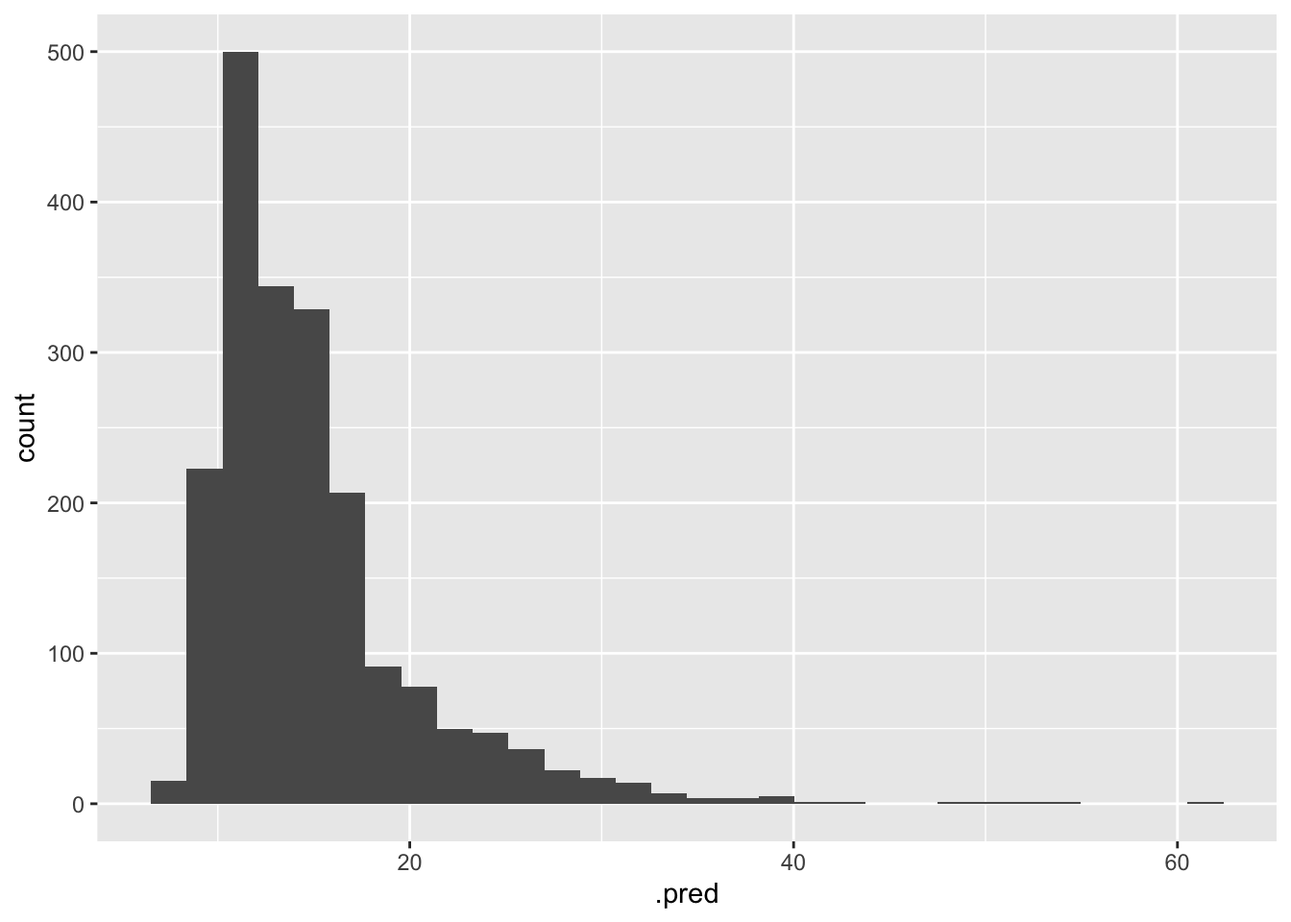
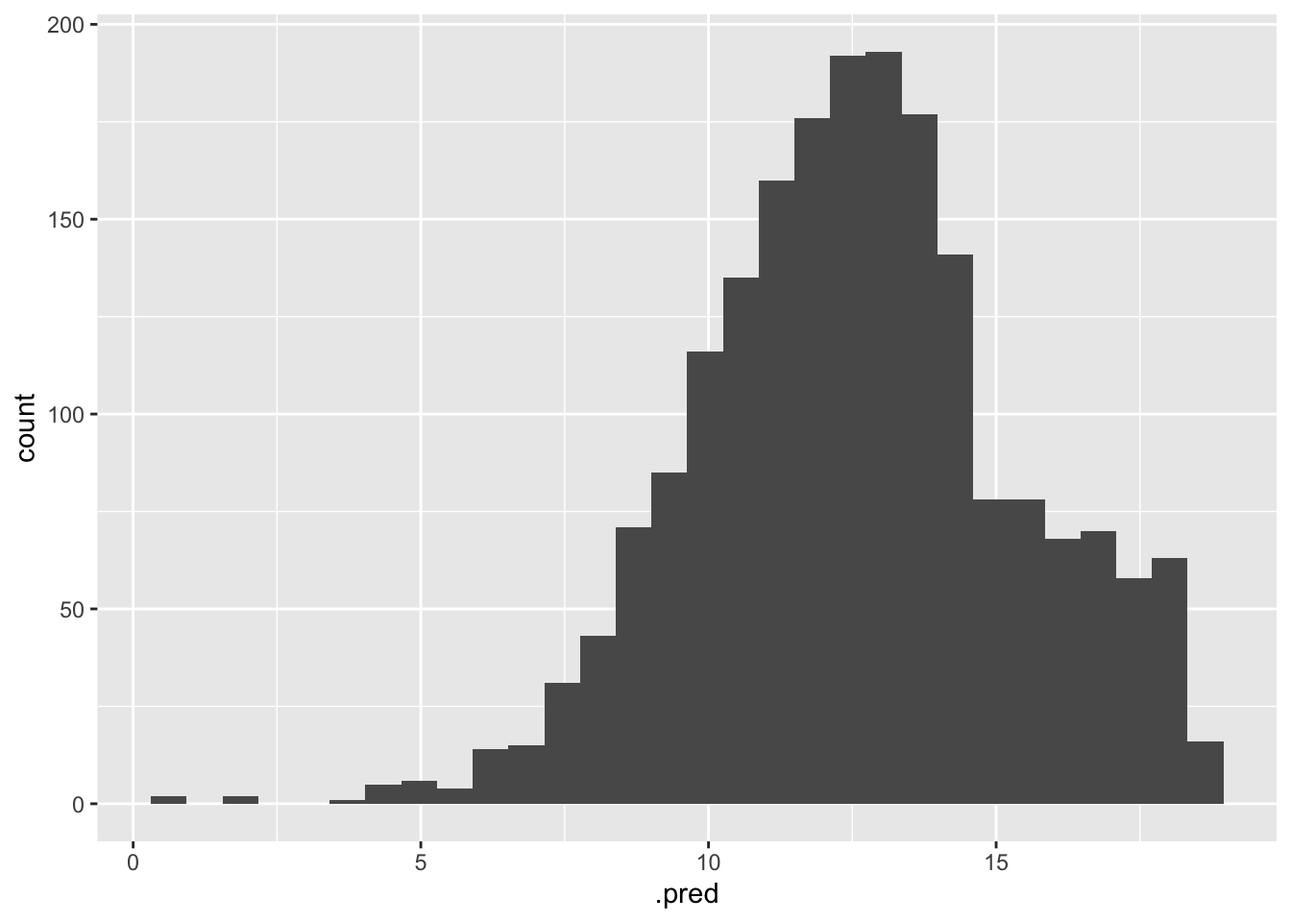
Updates frozen output, and site

diff --git a/docs/r-udfs-modeling.html b/docs/r-udfs-modeling.html
@@ -248,13 +248,13 @@ pre > code.sourceCode > span > a:first-child::before { text-decoration: underlin
 <h2 data-number="7.1" class="anchored" data-anchor-id="get-sample-of-data"><span class="header-section-number">7.1</span> Get sample of data</h2>
 <p><em>Download a sampled data set locally to R</em></p>
 <ol type="1">
-<li>Create a pointer to the <code>lendingclub</code> data. It is in the <code>default</code> schema, inside the <code>hive_metastore</code> catalog. And name it <code>lendingclub_dat</code></li>
+<li>Create a pointer to the <code>lendingclub</code> data. It is in the <code>samples</code> schema</li>
 </ol>
 <div class="cell">
-<div class="sourceCode cell-code" id="cb2"><pre class="sourceCode r code-with-copy"><code class="sourceCode r"><span id="cb2-1"><a href="#cb2-1" aria-hidden="true" tabindex="-1"></a>lendingclub_dat <span class="ot">&lt;-</span> <span class="fu">tbl</span>(sc, <span class="fu">I</span>(<span class="st">"hive_metastore.default.lendingclub"</span>))</span></code><button title="Copy to Clipboard" class="code-copy-button"><i class="bi"></i></button></pre></div>
+<div class="sourceCode cell-code" id="cb2"><pre class="sourceCode r code-with-copy"><code class="sourceCode r"><span id="cb2-1"><a href="#cb2-1" aria-hidden="true" tabindex="-1"></a>lendingclub_dat <span class="ot">&lt;-</span> <span class="fu">tbl</span>(sc, <span class="fu">I</span>(<span class="st">"workshops.samples.lendingclub"</span>))</span></code><button title="Copy to Clipboard" class="code-copy-button"><i class="bi"></i></button></pre></div>
 </div>
 <ol start="2" type="1">
-<li>Using <code>slice_sample()</code>, download 20K records, and name it <code>lendingclub_sample</code></li>
+<li>Using <code>slice_sample()</code>, download 2K records, and name it <code>lendingclub_sample</code></li>
 </ol>
 <div class="cell">
 <div class="sourceCode cell-code" id="cb3"><pre class="sourceCode r code-with-copy"><code class="sourceCode r"><span id="cb3-1"><a href="#cb3-1" aria-hidden="true" tabindex="-1"></a>lendingclub_sample <span class="ot">&lt;-</span> lendingclub_dat <span class="sc">|&gt;</span>  </span>
@@ -284,11 +284,11 @@ pre > code.sourceCode > span > a:first-child::before { text-decoration: underlin
 <div class="sourceCode cell-code" id="cb6"><pre class="sourceCode r code-with-copy"><code class="sourceCode r"><span id="cb6-1"><a href="#cb6-1" aria-hidden="true" tabindex="-1"></a><span class="fu">glimpse</span>(lendingclub_prep)</span>
 <span id="cb6-2"><a href="#cb6-2" aria-hidden="true" tabindex="-1"></a><span class="co">#&gt; Rows: 2,000</span></span>
 <span id="cb6-3"><a href="#cb6-3" aria-hidden="true" tabindex="-1"></a><span class="co">#&gt; Columns: 5</span></span>
-<span id="cb6-4"><a href="#cb6-4" aria-hidden="true" tabindex="-1"></a><span class="co">#&gt; $ int_rate       &lt;dbl&gt; 10.41, 6.83, 20.39, 11.98, 12.61, 15.49, 5.31, 11.98, 1…</span></span>
-<span id="cb6-5"><a href="#cb6-5" aria-hidden="true" tabindex="-1"></a><span class="co">#&gt; $ term           &lt;chr&gt; " 36 months", " 36 months", " 60 months", " 36 months",…</span></span>
-<span id="cb6-6"><a href="#cb6-6" aria-hidden="true" tabindex="-1"></a><span class="co">#&gt; $ bc_util        &lt;chr&gt; "16.8", "41.2", "12.3", "66.7", "30.8", "85.2", "59.1",…</span></span>
-<span id="cb6-7"><a href="#cb6-7" aria-hidden="true" tabindex="-1"></a><span class="co">#&gt; $ bc_open_to_buy &lt;chr&gt; "10739", "54371", "6662", "4163", "1384", "2781", "1152…</span></span>
-<span id="cb6-8"><a href="#cb6-8" aria-hidden="true" tabindex="-1"></a><span class="co">#&gt; $ all_util       &lt;chr&gt; "68", "51", "85", "73", "74", "85", "71", "37", "42", "…</span></span></code><button title="Copy to Clipboard" class="code-copy-button"><i class="bi"></i></button></pre></div>
+<span id="cb6-4"><a href="#cb6-4" aria-hidden="true" tabindex="-1"></a><span class="co">#&gt; $ int_rate       &lt;dbl&gt; 14.07, 12.61, 10.90, 9.58, 7.96, 5.31, 10.56, 18.45, 5.…</span></span>
+<span id="cb6-5"><a href="#cb6-5" aria-hidden="true" tabindex="-1"></a><span class="co">#&gt; $ term           &lt;chr&gt; "36 months", "60 months", "36 months", "36 months", "36…</span></span>
+<span id="cb6-6"><a href="#cb6-6" aria-hidden="true" tabindex="-1"></a><span class="co">#&gt; $ bc_util        &lt;dbl&gt; 8.5, 84.2, 95.4, 0.4, 16.6, 25.0, 28.3, 32.7, 53.6, 10.…</span></span>
+<span id="cb6-7"><a href="#cb6-7" aria-hidden="true" tabindex="-1"></a><span class="co">#&gt; $ bc_open_to_buy &lt;dbl&gt; 21232, 835, 278, 20919, 37946, 41334, 17721, 64335, 343…</span></span>
+<span id="cb6-8"><a href="#cb6-8" aria-hidden="true" tabindex="-1"></a><span class="co">#&gt; $ all_util       &lt;dbl&gt; 9, 61, 80, 61, 44, 29, 62, 33, 44, 19, 38, 37, 69, 29, …</span></span></code><button title="Copy to Clipboard" class="code-copy-button"><i class="bi"></i></button></pre></div>
 </div>
 <ol start="6" type="1">
 <li>Disconnect from Spark</li>
@@ -306,7 +306,7 @@ pre > code.sourceCode > span > a:first-child::before { text-decoration: underlin
 <div class="sourceCode cell-code" id="cb8"><pre class="sourceCode r code-with-copy"><code class="sourceCode r"><span id="cb8-1"><a href="#cb8-1" aria-hidden="true" tabindex="-1"></a><span class="fu">library</span>(tidymodels)</span>
 <span id="cb8-2"><a href="#cb8-2" aria-hidden="true" tabindex="-1"></a></span>
 <span id="cb8-3"><a href="#cb8-3" aria-hidden="true" tabindex="-1"></a>lendingclub_rec <span class="ot">&lt;-</span> <span class="fu">recipe</span>(int_rate <span class="sc">~</span> ., <span class="at">data =</span> lendingclub_prep) <span class="sc">|&gt;</span> </span>
-<span id="cb8-4"><a href="#cb8-4" aria-hidden="true" tabindex="-1"></a>  <span class="fu">step_mutate</span>(<span class="at">term =</span> <span class="fu">trimws</span>(<span class="fu">substr</span>(term, <span class="dv">1</span>,<span class="dv">4</span>))) <span class="sc">|&gt;</span> </span>
+<span id="cb8-4"><a href="#cb8-4" aria-hidden="true" tabindex="-1"></a>  <span class="fu">step_mutate</span>(<span class="at">term =</span> <span class="fu">trimws</span>(<span class="fu">substr</span>(term, <span class="dv">1</span>,<span class="dv">2</span>))) <span class="sc">|&gt;</span> </span>
 <span id="cb8-5"><a href="#cb8-5" aria-hidden="true" tabindex="-1"></a>  <span class="fu">step_mutate</span>(<span class="fu">across</span>(<span class="fu">everything</span>(), as.numeric)) <span class="sc">|&gt;</span> </span>
 <span id="cb8-6"><a href="#cb8-6" aria-hidden="true" tabindex="-1"></a>  <span class="fu">step_normalize</span>(<span class="fu">all_numeric_predictors</span>()) <span class="sc">|&gt;</span></span>
 <span id="cb8-7"><a href="#cb8-7" aria-hidden="true" tabindex="-1"></a>  <span class="fu">step_impute_mean</span>(<span class="fu">all_of</span>(<span class="fu">c</span>(<span class="st">"bc_open_to_buy"</span>, <span class="st">"bc_util"</span>))) <span class="sc">|&gt;</span>   </span>
@@ -355,9 +355,9 @@ pre > code.sourceCode > span > a:first-child::before { text-decoration: underlin
 <span id="cb10-4"><a href="#cb10-4" aria-hidden="true" tabindex="-1"></a><span class="co">#&gt; # A tibble: 3 × 3</span></span>
 <span id="cb10-5"><a href="#cb10-5" aria-hidden="true" tabindex="-1"></a><span class="co">#&gt;   .metric .estimator .estimate</span></span>
 <span id="cb10-6"><a href="#cb10-6" aria-hidden="true" tabindex="-1"></a><span class="co">#&gt;   &lt;chr&gt;   &lt;chr&gt;          &lt;dbl&gt;</span></span>
-<span id="cb10-7"><a href="#cb10-7" aria-hidden="true" tabindex="-1"></a><span class="co">#&gt; 1 rmse    standard      8.56  </span></span>
-<span id="cb10-8"><a href="#cb10-8" aria-hidden="true" tabindex="-1"></a><span class="co">#&gt; 2 rsq     standard      0.0378</span></span>
-<span id="cb10-9"><a href="#cb10-9" aria-hidden="true" tabindex="-1"></a><span class="co">#&gt; 3 mae     standard      6.29</span></span></code><button title="Copy to Clipboard" class="code-copy-button"><i class="bi"></i></button></pre></div>
+<span id="cb10-7"><a href="#cb10-7" aria-hidden="true" tabindex="-1"></a><span class="co">#&gt; 1 rmse    standard       4.18 </span></span>
+<span id="cb10-8"><a href="#cb10-8" aria-hidden="true" tabindex="-1"></a><span class="co">#&gt; 2 rsq     standard       0.307</span></span>
+<span id="cb10-9"><a href="#cb10-9" aria-hidden="true" tabindex="-1"></a><span class="co">#&gt; 3 mae     standard       3.26</span></span></code><button title="Copy to Clipboard" class="code-copy-button"><i class="bi"></i></button></pre></div>
 </div>
 <ol start="4" type="1">
 <li>Run a histogram over the predictions</li>
@@ -419,16 +419,16 @@ pre > code.sourceCode > span > a:first-child::before { text-decoration: underlin
 <span id="cb16-2"><a href="#cb16-2" aria-hidden="true" tabindex="-1"></a><span class="co">#&gt; # A tibble: 2,000 × 1</span></span>
 <span id="cb16-3"><a href="#cb16-3" aria-hidden="true" tabindex="-1"></a><span class="co">#&gt;    .pred</span></span>
 <span id="cb16-4"><a href="#cb16-4" aria-hidden="true" tabindex="-1"></a><span class="co">#&gt;    &lt;dbl&gt;</span></span>
-<span id="cb16-5"><a href="#cb16-5" aria-hidden="true" tabindex="-1"></a><span class="co">#&gt;  1  13.1</span></span>
-<span id="cb16-6"><a href="#cb16-6" aria-hidden="true" tabindex="-1"></a><span class="co">#&gt;  2  26.4</span></span>
-<span id="cb16-7"><a href="#cb16-7" aria-hidden="true" tabindex="-1"></a><span class="co">#&gt;  3  16.1</span></span>
-<span id="cb16-8"><a href="#cb16-8" aria-hidden="true" tabindex="-1"></a><span class="co">#&gt;  4  11.5</span></span>
-<span id="cb16-9"><a href="#cb16-9" aria-hidden="true" tabindex="-1"></a><span class="co">#&gt;  5  10.5</span></span>
-<span id="cb16-10"><a href="#cb16-10" aria-hidden="true" tabindex="-1"></a><span class="co">#&gt;  6  15.2</span></span>
-<span id="cb16-11"><a href="#cb16-11" aria-hidden="true" tabindex="-1"></a><span class="co">#&gt;  7  13.7</span></span>
-<span id="cb16-12"><a href="#cb16-12" aria-hidden="true" tabindex="-1"></a><span class="co">#&gt;  8  18.5</span></span>
-<span id="cb16-13"><a href="#cb16-13" aria-hidden="true" tabindex="-1"></a><span class="co">#&gt;  9  37.7</span></span>
-<span id="cb16-14"><a href="#cb16-14" aria-hidden="true" tabindex="-1"></a><span class="co">#&gt; 10  12.0</span></span>
+<span id="cb16-5"><a href="#cb16-5" aria-hidden="true" tabindex="-1"></a><span class="co">#&gt;  1  8.35</span></span>
+<span id="cb16-6"><a href="#cb16-6" aria-hidden="true" tabindex="-1"></a><span class="co">#&gt;  2 17.3 </span></span>
+<span id="cb16-7"><a href="#cb16-7" aria-hidden="true" tabindex="-1"></a><span class="co">#&gt;  3 14.2 </span></span>
+<span id="cb16-8"><a href="#cb16-8" aria-hidden="true" tabindex="-1"></a><span class="co">#&gt;  4 10.1 </span></span>
+<span id="cb16-9"><a href="#cb16-9" aria-hidden="true" tabindex="-1"></a><span class="co">#&gt;  5  8.77</span></span>
+<span id="cb16-10"><a href="#cb16-10" aria-hidden="true" tabindex="-1"></a><span class="co">#&gt;  6  8.22</span></span>
+<span id="cb16-11"><a href="#cb16-11" aria-hidden="true" tabindex="-1"></a><span class="co">#&gt;  7 10.9 </span></span>
+<span id="cb16-12"><a href="#cb16-12" aria-hidden="true" tabindex="-1"></a><span class="co">#&gt;  8  7.14</span></span>
+<span id="cb16-13"><a href="#cb16-13" aria-hidden="true" tabindex="-1"></a><span class="co">#&gt;  9 11.8 </span></span>
+<span id="cb16-14"><a href="#cb16-14" aria-hidden="true" tabindex="-1"></a><span class="co">#&gt; 10  8.00</span></span>
 <span id="cb16-15"><a href="#cb16-15" aria-hidden="true" tabindex="-1"></a><span class="co">#&gt; # ℹ 1,990 more rows</span></span></code><button title="Copy to Clipboard" class="code-copy-button"><i class="bi"></i></button></pre></div>
 </div>
 <ol start="3" type="1">
@@ -448,18 +448,18 @@ pre > code.sourceCode > span > a:first-child::before { text-decoration: underlin
 <div class="cell">
 <div class="sourceCode cell-code" id="cb18"><pre class="sourceCode r code-with-copy"><code class="sourceCode r"><span id="cb18-1"><a href="#cb18-1" aria-hidden="true" tabindex="-1"></a><span class="fu">predict_vetiver</span>(lendingclub_prep)</span>
 <span id="cb18-2"><a href="#cb18-2" aria-hidden="true" tabindex="-1"></a><span class="co">#&gt; # A tibble: 2,000 × 6</span></span>
-<span id="cb18-3"><a href="#cb18-3" aria-hidden="true" tabindex="-1"></a><span class="co">#&gt;    int_rate term         bc_util bc_open_to_buy all_util rate_pred</span></span>
-<span id="cb18-4"><a href="#cb18-4" aria-hidden="true" tabindex="-1"></a><span class="co">#&gt;       &lt;dbl&gt; &lt;chr&gt;        &lt;chr&gt;   &lt;chr&gt;          &lt;chr&gt;        &lt;dbl&gt;</span></span>
-<span id="cb18-5"><a href="#cb18-5" aria-hidden="true" tabindex="-1"></a><span class="co">#&gt;  1    10.4  " 36 months" 16.8    10739          68            13.1</span></span>
-<span id="cb18-6"><a href="#cb18-6" aria-hidden="true" tabindex="-1"></a><span class="co">#&gt;  2     6.83 " 36 months" 41.2    54371          51            26.4</span></span>
-<span id="cb18-7"><a href="#cb18-7" aria-hidden="true" tabindex="-1"></a><span class="co">#&gt;  3    20.4  " 60 months" 12.3    6662           85            16.1</span></span>
-<span id="cb18-8"><a href="#cb18-8" aria-hidden="true" tabindex="-1"></a><span class="co">#&gt;  4    12.0  " 36 months" 66.7    4163           73            11.5</span></span>
-<span id="cb18-9"><a href="#cb18-9" aria-hidden="true" tabindex="-1"></a><span class="co">#&gt;  5    12.6  " 36 months" 30.8    1384           74            10.5</span></span>
-<span id="cb18-10"><a href="#cb18-10" aria-hidden="true" tabindex="-1"></a><span class="co">#&gt;  6    15.5  " 60 months" 85.2    2781           85            15.2</span></span>
-<span id="cb18-11"><a href="#cb18-11" aria-hidden="true" tabindex="-1"></a><span class="co">#&gt;  7     5.31 " 36 months" 59.1    11523          71            13.7</span></span>
-<span id="cb18-12"><a href="#cb18-12" aria-hidden="true" tabindex="-1"></a><span class="co">#&gt;  8    12.0  " 60 months" 37.4    20722          37            18.5</span></span>
-<span id="cb18-13"><a href="#cb18-13" aria-hidden="true" tabindex="-1"></a><span class="co">#&gt;  9    10.1  " 36 months" 27.1    91299          42            37.7</span></span>
-<span id="cb18-14"><a href="#cb18-14" aria-hidden="true" tabindex="-1"></a><span class="co">#&gt; 10     6.07 " 36 months" 0       11000          42            12.0</span></span>
+<span id="cb18-3"><a href="#cb18-3" aria-hidden="true" tabindex="-1"></a><span class="co">#&gt;    int_rate term      bc_util bc_open_to_buy all_util rate_pred</span></span>
+<span id="cb18-4"><a href="#cb18-4" aria-hidden="true" tabindex="-1"></a><span class="co">#&gt;       &lt;dbl&gt; &lt;chr&gt;       &lt;dbl&gt;          &lt;dbl&gt;    &lt;dbl&gt;     &lt;dbl&gt;</span></span>
+<span id="cb18-5"><a href="#cb18-5" aria-hidden="true" tabindex="-1"></a><span class="co">#&gt;  1    14.1  36 months     8.5          21232        9      8.35</span></span>
+<span id="cb18-6"><a href="#cb18-6" aria-hidden="true" tabindex="-1"></a><span class="co">#&gt;  2    12.6  60 months    84.2            835       61     17.3 </span></span>
+<span id="cb18-7"><a href="#cb18-7" aria-hidden="true" tabindex="-1"></a><span class="co">#&gt;  3    10.9  36 months    95.4            278       80     14.2 </span></span>
+<span id="cb18-8"><a href="#cb18-8" aria-hidden="true" tabindex="-1"></a><span class="co">#&gt;  4     9.58 36 months     0.4          20919       61     10.1 </span></span>
+<span id="cb18-9"><a href="#cb18-9" aria-hidden="true" tabindex="-1"></a><span class="co">#&gt;  5     7.96 36 months    16.6          37946       44      8.77</span></span>
+<span id="cb18-10"><a href="#cb18-10" aria-hidden="true" tabindex="-1"></a><span class="co">#&gt;  6     5.31 36 months    25            41334       29      8.22</span></span>
+<span id="cb18-11"><a href="#cb18-11" aria-hidden="true" tabindex="-1"></a><span class="co">#&gt;  7    10.6  36 months    28.3          17721       62     10.9 </span></span>
+<span id="cb18-12"><a href="#cb18-12" aria-hidden="true" tabindex="-1"></a><span class="co">#&gt;  8    18.4  36 months    32.7          64335       33      7.14</span></span>
+<span id="cb18-13"><a href="#cb18-13" aria-hidden="true" tabindex="-1"></a><span class="co">#&gt;  9     5.31 36 months    53.6           3434       44     11.8 </span></span>
+<span id="cb18-14"><a href="#cb18-14" aria-hidden="true" tabindex="-1"></a><span class="co">#&gt; 10     7.46 36 months    10.9          33668       19      8.00</span></span>
 <span id="cb18-15"><a href="#cb18-15" aria-hidden="true" tabindex="-1"></a><span class="co">#&gt; # ℹ 1,990 more rows</span></span></code><button title="Copy to Clipboard" class="code-copy-button"><i class="bi"></i></button></pre></div>
 </div>
 <ol start="5" type="1">
@@ -481,18 +481,18 @@ pre > code.sourceCode > span > a:first-child::before { text-decoration: underlin
 <div class="cell">
 <div class="sourceCode cell-code" id="cb20"><pre class="sourceCode r code-with-copy"><code class="sourceCode r"><span id="cb20-1"><a href="#cb20-1" aria-hidden="true" tabindex="-1"></a><span class="fu">predict_vetiver</span>(lendingclub_prep)</span>
 <span id="cb20-2"><a href="#cb20-2" aria-hidden="true" tabindex="-1"></a><span class="co">#&gt; # A tibble: 2,000 × 6</span></span>
-<span id="cb20-3"><a href="#cb20-3" aria-hidden="true" tabindex="-1"></a><span class="co">#&gt;    int_rate term         bc_util bc_open_to_buy all_util rate_pred</span></span>
-<span id="cb20-4"><a href="#cb20-4" aria-hidden="true" tabindex="-1"></a><span class="co">#&gt;       &lt;dbl&gt; &lt;chr&gt;        &lt;chr&gt;   &lt;chr&gt;          &lt;chr&gt;        &lt;dbl&gt;</span></span>
-<span id="cb20-5"><a href="#cb20-5" aria-hidden="true" tabindex="-1"></a><span class="co">#&gt;  1    10.4  " 36 months" 16.8    10739          68            13.1</span></span>
-<span id="cb20-6"><a href="#cb20-6" aria-hidden="true" tabindex="-1"></a><span class="co">#&gt;  2     6.83 " 36 months" 41.2    54371          51            26.4</span></span>
-<span id="cb20-7"><a href="#cb20-7" aria-hidden="true" tabindex="-1"></a><span class="co">#&gt;  3    20.4  " 60 months" 12.3    6662           85            16.1</span></span>
-<span id="cb20-8"><a href="#cb20-8" aria-hidden="true" tabindex="-1"></a><span class="co">#&gt;  4    12.0  " 36 months" 66.7    4163           73            11.5</span></span>
-<span id="cb20-9"><a href="#cb20-9" aria-hidden="true" tabindex="-1"></a><span class="co">#&gt;  5    12.6  " 36 months" 30.8    1384           74            10.5</span></span>
-<span id="cb20-10"><a href="#cb20-10" aria-hidden="true" tabindex="-1"></a><span class="co">#&gt;  6    15.5  " 60 months" 85.2    2781           85            15.2</span></span>
-<span id="cb20-11"><a href="#cb20-11" aria-hidden="true" tabindex="-1"></a><span class="co">#&gt;  7     5.31 " 36 months" 59.1    11523          71            13.7</span></span>
-<span id="cb20-12"><a href="#cb20-12" aria-hidden="true" tabindex="-1"></a><span class="co">#&gt;  8    12.0  " 60 months" 37.4    20722          37            18.5</span></span>
-<span id="cb20-13"><a href="#cb20-13" aria-hidden="true" tabindex="-1"></a><span class="co">#&gt;  9    10.1  " 36 months" 27.1    91299          42            37.7</span></span>
-<span id="cb20-14"><a href="#cb20-14" aria-hidden="true" tabindex="-1"></a><span class="co">#&gt; 10     6.07 " 36 months" 0       11000          42            12.0</span></span>
+<span id="cb20-3"><a href="#cb20-3" aria-hidden="true" tabindex="-1"></a><span class="co">#&gt;    int_rate term      bc_util bc_open_to_buy all_util rate_pred</span></span>
+<span id="cb20-4"><a href="#cb20-4" aria-hidden="true" tabindex="-1"></a><span class="co">#&gt;       &lt;dbl&gt; &lt;chr&gt;       &lt;dbl&gt;          &lt;dbl&gt;    &lt;dbl&gt;     &lt;dbl&gt;</span></span>
+<span id="cb20-5"><a href="#cb20-5" aria-hidden="true" tabindex="-1"></a><span class="co">#&gt;  1    14.1  36 months     8.5          21232        9      8.35</span></span>
+<span id="cb20-6"><a href="#cb20-6" aria-hidden="true" tabindex="-1"></a><span class="co">#&gt;  2    12.6  60 months    84.2            835       61     17.3 </span></span>
+<span id="cb20-7"><a href="#cb20-7" aria-hidden="true" tabindex="-1"></a><span class="co">#&gt;  3    10.9  36 months    95.4            278       80     14.2 </span></span>
+<span id="cb20-8"><a href="#cb20-8" aria-hidden="true" tabindex="-1"></a><span class="co">#&gt;  4     9.58 36 months     0.4          20919       61     10.1 </span></span>
+<span id="cb20-9"><a href="#cb20-9" aria-hidden="true" tabindex="-1"></a><span class="co">#&gt;  5     7.96 36 months    16.6          37946       44      8.77</span></span>
+<span id="cb20-10"><a href="#cb20-10" aria-hidden="true" tabindex="-1"></a><span class="co">#&gt;  6     5.31 36 months    25            41334       29      8.22</span></span>
+<span id="cb20-11"><a href="#cb20-11" aria-hidden="true" tabindex="-1"></a><span class="co">#&gt;  7    10.6  36 months    28.3          17721       62     10.9 </span></span>
+<span id="cb20-12"><a href="#cb20-12" aria-hidden="true" tabindex="-1"></a><span class="co">#&gt;  8    18.4  36 months    32.7          64335       33      7.14</span></span>
+<span id="cb20-13"><a href="#cb20-13" aria-hidden="true" tabindex="-1"></a><span class="co">#&gt;  9     5.31 36 months    53.6           3434       44     11.8 </span></span>
+<span id="cb20-14"><a href="#cb20-14" aria-hidden="true" tabindex="-1"></a><span class="co">#&gt; 10     7.46 36 months    10.9          33668       19      8.00</span></span>
 <span id="cb20-15"><a href="#cb20-15" aria-hidden="true" tabindex="-1"></a><span class="co">#&gt; # ℹ 1,990 more rows</span></span></code><button title="Copy to Clipboard" class="code-copy-button"><i class="bi"></i></button></pre></div>
 </div>
 </section>
@@ -523,10 +523,10 @@ pre > code.sourceCode > span > a:first-child::before { text-decoration: underlin
 <div class="sourceCode cell-code" id="cb22"><pre class="sourceCode r code-with-copy"><code class="sourceCode r"><span id="cb22-1"><a href="#cb22-1" aria-hidden="true" tabindex="-1"></a>sc <span class="ot">&lt;-</span> <span class="fu">spark_connect</span>(<span class="at">method =</span> <span class="st">"databricks_connect"</span>)</span></code><button title="Copy to Clipboard" class="code-copy-button"><i class="bi"></i></button></pre></div>
 </div>
 <ol start="3" type="1">
-<li>Re-create a pointer to the <code>lendingclub</code> data. It is in the <code>default</code> schema, inside the <code>hive_metastore</code> catalog. And name it <code>lendingclub_dat</code></li>
+<li>Re-create a pointer to the <code>lendingclub</code> data. It is in the <code>samples</code> schema</li>
 </ol>
 <div class="cell">
-<div class="sourceCode cell-code" id="cb23"><pre class="sourceCode r code-with-copy"><code class="sourceCode r"><span id="cb23-1"><a href="#cb23-1" aria-hidden="true" tabindex="-1"></a>lendingclub_dat <span class="ot">&lt;-</span> <span class="fu">tbl</span>(sc, <span class="fu">I</span>(<span class="st">"hive_metastore.default.lendingclub"</span>))</span></code><button title="Copy to Clipboard" class="code-copy-button"><i class="bi"></i></button></pre></div>
+<div class="sourceCode cell-code" id="cb23"><pre class="sourceCode r code-with-copy"><code class="sourceCode r"><span id="cb23-1"><a href="#cb23-1" aria-hidden="true" tabindex="-1"></a>lendingclub_dat <span class="ot">&lt;-</span> <span class="fu">tbl</span>(sc, <span class="fu">I</span>(<span class="st">"workshops.samples.lendingclub"</span>))</span></code><button title="Copy to Clipboard" class="code-copy-button"><i class="bi"></i></button></pre></div>
 </div>
 <ol start="4" type="1">
 <li>Select the <code>int_rate</code>, <code>term</code>, <code>bc_util</code>, <code>bc_open_to_buy</code>, and <code>all_util</code> fields from <code>lendingclub_dat</code>. And then pass just the top rows (using <code>head()</code>) to <code>spark_apply()</code>. Use the updated <code>predict_vetiver</code> to run the model.</li>
@@ -536,16 +536,16 @@ pre > code.sourceCode > span > a:first-child::before { text-decoration: underlin
 <span id="cb24-2"><a href="#cb24-2" aria-hidden="true" tabindex="-1"></a>  <span class="fu">select</span>(int_rate, term, bc_util, bc_open_to_buy, all_util) <span class="sc">|&gt;</span> </span>
 <span id="cb24-3"><a href="#cb24-3" aria-hidden="true" tabindex="-1"></a>  <span class="fu">head</span>() <span class="sc">|&gt;</span> </span>
 <span id="cb24-4"><a href="#cb24-4" aria-hidden="true" tabindex="-1"></a>  <span class="fu">spark_apply</span>(predict_vetiver)</span>
-<span id="cb24-5"><a href="#cb24-5" aria-hidden="true" tabindex="-1"></a><span class="co">#&gt; # Source:   table&lt;`sparklyr_tmp_table_5de81387_4e85_4750_9241_1502f68c6a44`&gt; [6 x 6]</span></span>
+<span id="cb24-5"><a href="#cb24-5" aria-hidden="true" tabindex="-1"></a><span class="co">#&gt; # Source:   table&lt;`sparklyr_tmp_table_ccf6db3c_0348_4246_8a93_765344c7f00a`&gt; [6 x 6]</span></span>
 <span id="cb24-6"><a href="#cb24-6" aria-hidden="true" tabindex="-1"></a><span class="co">#&gt; # Database: spark_connection</span></span>
-<span id="cb24-7"><a href="#cb24-7" aria-hidden="true" tabindex="-1"></a><span class="co">#&gt;   int_rate term         bc_util bc_open_to_buy all_util rate_pred</span></span>
-<span id="cb24-8"><a href="#cb24-8" aria-hidden="true" tabindex="-1"></a><span class="co">#&gt;   &lt;chr&gt;    &lt;chr&gt;        &lt;chr&gt;   &lt;chr&gt;          &lt;chr&gt;        &lt;dbl&gt;</span></span>
-<span id="cb24-9"><a href="#cb24-9" aria-hidden="true" tabindex="-1"></a><span class="co">#&gt; 1 20.39%   " 36 months" 94      133            82            10.8</span></span>
-<span id="cb24-10"><a href="#cb24-10" aria-hidden="true" tabindex="-1"></a><span class="co">#&gt; 2 13.06%   " 60 months" 82      10021          70            15.4</span></span>
-<span id="cb24-11"><a href="#cb24-11" aria-hidden="true" tabindex="-1"></a><span class="co">#&gt; 3 10.56%   " 60 months" 34.5    41570          54            19.3</span></span>
-<span id="cb24-12"><a href="#cb24-12" aria-hidden="true" tabindex="-1"></a><span class="co">#&gt; 4 6.83%    " 36 months" 7.9     23119          47            12.4</span></span>
-<span id="cb24-13"><a href="#cb24-13" aria-hidden="true" tabindex="-1"></a><span class="co">#&gt; 5 17.47%   " 60 months" 62.1    11686          57            15.0</span></span>
-<span id="cb24-14"><a href="#cb24-14" aria-hidden="true" tabindex="-1"></a><span class="co">#&gt; 6 16.46%   " 36 months" 92.2    380            75            10.5</span></span></code><button title="Copy to Clipboard" class="code-copy-button"><i class="bi"></i></button></pre></div>
+<span id="cb24-7"><a href="#cb24-7" aria-hidden="true" tabindex="-1"></a><span class="co">#&gt;   int_rate term      bc_util bc_open_to_buy all_util rate_pred</span></span>
+<span id="cb24-8"><a href="#cb24-8" aria-hidden="true" tabindex="-1"></a><span class="co">#&gt;   &lt;chr&gt;    &lt;chr&gt;       &lt;dbl&gt;          &lt;dbl&gt;    &lt;dbl&gt;     &lt;dbl&gt;</span></span>
+<span id="cb24-9"><a href="#cb24-9" aria-hidden="true" tabindex="-1"></a><span class="co">#&gt; 1 20.39%   36 months    94              133       82     14.9 </span></span>
+<span id="cb24-10"><a href="#cb24-10" aria-hidden="true" tabindex="-1"></a><span class="co">#&gt; 2 13.06%   60 months    82            10021       70     17.2 </span></span>
+<span id="cb24-11"><a href="#cb24-11" aria-hidden="true" tabindex="-1"></a><span class="co">#&gt; 3 10.56%   60 months    34.5          41570       54     13.4 </span></span>
+<span id="cb24-12"><a href="#cb24-12" aria-hidden="true" tabindex="-1"></a><span class="co">#&gt; 4 6.83%    36 months     7.9          23119       47      9.43</span></span>
+<span id="cb24-13"><a href="#cb24-13" aria-hidden="true" tabindex="-1"></a><span class="co">#&gt; 5 17.47%   60 months    62.1          11686       57     16.0 </span></span>
+<span id="cb24-14"><a href="#cb24-14" aria-hidden="true" tabindex="-1"></a><span class="co">#&gt; 6 16.46%   36 months    92.2            380       75     14.6</span></span></code><button title="Copy to Clipboard" class="code-copy-button"><i class="bi"></i></button></pre></div>
 </div>
 <ol start="5" type="1">
 <li>Add the <code>columns</code> specification to the <code>spark_apply()</code> call</li>
@@ -556,18 +556,18 @@ pre > code.sourceCode > span > a:first-child::before { text-decoration: underlin
 <span id="cb25-3"><a href="#cb25-3" aria-hidden="true" tabindex="-1"></a>  <span class="fu">head</span>() <span class="sc">|&gt;</span> </span>
 <span id="cb25-4"><a href="#cb25-4" aria-hidden="true" tabindex="-1"></a>  <span class="fu">spark_apply</span>(</span>
 <span id="cb25-5"><a href="#cb25-5" aria-hidden="true" tabindex="-1"></a>    predict_vetiver, </span>
-<span id="cb25-6"><a href="#cb25-6" aria-hidden="true" tabindex="-1"></a>    <span class="at">columns =</span> <span class="st">"int_rate string, term string, bc_util string, bc_open_to_buy string, all_util string, pred double"</span></span>
+<span id="cb25-6"><a href="#cb25-6" aria-hidden="true" tabindex="-1"></a>    <span class="at">columns =</span> <span class="st">"int_rate string, term string, bc_util double, bc_open_to_buy double, all_util double, pred double"</span></span>
 <span id="cb25-7"><a href="#cb25-7" aria-hidden="true" tabindex="-1"></a>    )</span>
-<span id="cb25-8"><a href="#cb25-8" aria-hidden="true" tabindex="-1"></a><span class="co">#&gt; # Source:   table&lt;`sparklyr_tmp_table_80a58a3e_ec28_4cee_a25b_7751e0973f95`&gt; [6 x 6]</span></span>
+<span id="cb25-8"><a href="#cb25-8" aria-hidden="true" tabindex="-1"></a><span class="co">#&gt; # Source:   table&lt;`sparklyr_tmp_table_63178bba_c8ea_4f0b_aa19_c3377c947124`&gt; [6 x 6]</span></span>
 <span id="cb25-9"><a href="#cb25-9" aria-hidden="true" tabindex="-1"></a><span class="co">#&gt; # Database: spark_connection</span></span>
-<span id="cb25-10"><a href="#cb25-10" aria-hidden="true" tabindex="-1"></a><span class="co">#&gt;   int_rate term         bc_util bc_open_to_buy all_util  pred</span></span>
-<span id="cb25-11"><a href="#cb25-11" aria-hidden="true" tabindex="-1"></a><span class="co">#&gt;   &lt;chr&gt;    &lt;chr&gt;        &lt;chr&gt;   &lt;chr&gt;          &lt;chr&gt;    &lt;dbl&gt;</span></span>
-<span id="cb25-12"><a href="#cb25-12" aria-hidden="true" tabindex="-1"></a><span class="co">#&gt; 1 20.39%   " 36 months" 94      133            82        10.8</span></span>
-<span id="cb25-13"><a href="#cb25-13" aria-hidden="true" tabindex="-1"></a><span class="co">#&gt; 2 13.06%   " 60 months" 82      10021          70        15.4</span></span>
-<span id="cb25-14"><a href="#cb25-14" aria-hidden="true" tabindex="-1"></a><span class="co">#&gt; 3 10.56%   " 60 months" 34.5    41570          54        19.3</span></span>
-<span id="cb25-15"><a href="#cb25-15" aria-hidden="true" tabindex="-1"></a><span class="co">#&gt; 4 6.83%    " 36 months" 7.9     23119          47        12.4</span></span>
-<span id="cb25-16"><a href="#cb25-16" aria-hidden="true" tabindex="-1"></a><span class="co">#&gt; 5 17.47%   " 60 months" 62.1    11686          57        15.0</span></span>
-<span id="cb25-17"><a href="#cb25-17" aria-hidden="true" tabindex="-1"></a><span class="co">#&gt; 6 16.46%   " 36 months" 92.2    380            75        10.5</span></span></code><button title="Copy to Clipboard" class="code-copy-button"><i class="bi"></i></button></pre></div>
+<span id="cb25-10"><a href="#cb25-10" aria-hidden="true" tabindex="-1"></a><span class="co">#&gt;   int_rate term      bc_util bc_open_to_buy all_util  pred</span></span>
+<span id="cb25-11"><a href="#cb25-11" aria-hidden="true" tabindex="-1"></a><span class="co">#&gt;   &lt;chr&gt;    &lt;chr&gt;       &lt;dbl&gt;          &lt;dbl&gt;    &lt;dbl&gt; &lt;dbl&gt;</span></span>
+<span id="cb25-12"><a href="#cb25-12" aria-hidden="true" tabindex="-1"></a><span class="co">#&gt; 1 20.39%   36 months    94              133       82 14.9 </span></span>
+<span id="cb25-13"><a href="#cb25-13" aria-hidden="true" tabindex="-1"></a><span class="co">#&gt; 2 13.06%   60 months    82            10021       70 17.2 </span></span>
+<span id="cb25-14"><a href="#cb25-14" aria-hidden="true" tabindex="-1"></a><span class="co">#&gt; 3 10.56%   60 months    34.5          41570       54 13.4 </span></span>
+<span id="cb25-15"><a href="#cb25-15" aria-hidden="true" tabindex="-1"></a><span class="co">#&gt; 4 6.83%    36 months     7.9          23119       47  9.43</span></span>
+<span id="cb25-16"><a href="#cb25-16" aria-hidden="true" tabindex="-1"></a><span class="co">#&gt; 5 17.47%   60 months    62.1          11686       57 16.0 </span></span>
+<span id="cb25-17"><a href="#cb25-17" aria-hidden="true" tabindex="-1"></a><span class="co">#&gt; 6 16.46%   36 months    92.2            380       75 14.6</span></span></code><button title="Copy to Clipboard" class="code-copy-button"><i class="bi"></i></button></pre></div>
 </div>
 <ol start="6" type="1">
 <li>Append <code>compute()</code> to the end of the code, remove <code>head()</code>, and save the results into a variable called <code>lendingclub_predictions</code></li>
@@ -577,7 +577,7 @@ pre > code.sourceCode > span > a:first-child::before { text-decoration: underlin
 <span id="cb26-2"><a href="#cb26-2" aria-hidden="true" tabindex="-1"></a>  <span class="fu">select</span>(int_rate, term, bc_util, bc_open_to_buy, all_util) <span class="sc">|&gt;</span> </span>
 <span id="cb26-3"><a href="#cb26-3" aria-hidden="true" tabindex="-1"></a>  <span class="fu">spark_apply</span>(</span>
 <span id="cb26-4"><a href="#cb26-4" aria-hidden="true" tabindex="-1"></a>    predict_vetiver,</span>
-<span id="cb26-5"><a href="#cb26-5" aria-hidden="true" tabindex="-1"></a>    <span class="at">columns =</span> <span class="st">"int_rate string, term string, bc_util string, bc_open_to_buy string, all_util string, pred double"</span></span>
+<span id="cb26-5"><a href="#cb26-5" aria-hidden="true" tabindex="-1"></a>    <span class="at">columns =</span> <span class="st">"int_rate string, term string, bc_util double, bc_open_to_buy double, all_util double, pred double"</span></span>
 <span id="cb26-6"><a href="#cb26-6" aria-hidden="true" tabindex="-1"></a>    ) <span class="sc">|&gt;</span> </span>
 <span id="cb26-7"><a href="#cb26-7" aria-hidden="true" tabindex="-1"></a>  <span class="fu">compute</span>()</span></code><button title="Copy to Clipboard" class="code-copy-button"><i class="bi"></i></button></pre></div>
 </div>
@@ -586,20 +586,20 @@ pre > code.sourceCode > span > a:first-child::before { text-decoration: underlin
 </ol>
 <div class="cell">
 <div class="sourceCode cell-code" id="cb27"><pre class="sourceCode r code-with-copy"><code class="sourceCode r"><span id="cb27-1"><a href="#cb27-1" aria-hidden="true" tabindex="-1"></a>lendingclub_predictions</span>
-<span id="cb27-2"><a href="#cb27-2" aria-hidden="true" tabindex="-1"></a><span class="co">#&gt; # Source:   table&lt;`table_02c87465_59e2_4e12_a67a_1ae487701f2e`&gt; [?? x 6]</span></span>
+<span id="cb27-2"><a href="#cb27-2" aria-hidden="true" tabindex="-1"></a><span class="co">#&gt; # Source:   table&lt;`table_6ba184f8_9933_4bdd_88da_cc5f27fc4e91`&gt; [?? x 6]</span></span>
 <span id="cb27-3"><a href="#cb27-3" aria-hidden="true" tabindex="-1"></a><span class="co">#&gt; # Database: spark_connection</span></span>
-<span id="cb27-4"><a href="#cb27-4" aria-hidden="true" tabindex="-1"></a><span class="co">#&gt;    int_rate term         bc_util bc_open_to_buy all_util  pred</span></span>
-<span id="cb27-5"><a href="#cb27-5" aria-hidden="true" tabindex="-1"></a><span class="co">#&gt;    &lt;chr&gt;    &lt;chr&gt;        &lt;chr&gt;   &lt;chr&gt;          &lt;chr&gt;    &lt;dbl&gt;</span></span>
-<span id="cb27-6"><a href="#cb27-6" aria-hidden="true" tabindex="-1"></a><span class="co">#&gt;  1 20.39%   " 36 months" 94      133            82        10.8</span></span>
-<span id="cb27-7"><a href="#cb27-7" aria-hidden="true" tabindex="-1"></a><span class="co">#&gt;  2 13.06%   " 60 months" 82      10021          70        15.4</span></span>
-<span id="cb27-8"><a href="#cb27-8" aria-hidden="true" tabindex="-1"></a><span class="co">#&gt;  3 10.56%   " 60 months" 34.5    41570          54        19.3</span></span>
-<span id="cb27-9"><a href="#cb27-9" aria-hidden="true" tabindex="-1"></a><span class="co">#&gt;  4 6.83%    " 36 months" 7.9     23119          47        12.4</span></span>
-<span id="cb27-10"><a href="#cb27-10" aria-hidden="true" tabindex="-1"></a><span class="co">#&gt;  5 17.47%   " 60 months" 62.1    11686          57        15.0</span></span>
-<span id="cb27-11"><a href="#cb27-11" aria-hidden="true" tabindex="-1"></a><span class="co">#&gt;  6 16.46%   " 36 months" 92.2    380            75        10.5</span></span>
-<span id="cb27-12"><a href="#cb27-12" aria-hidden="true" tabindex="-1"></a><span class="co">#&gt;  7 19.42%   " 60 months" 21.5    1099           12        11.2</span></span>
-<span id="cb27-13"><a href="#cb27-13" aria-hidden="true" tabindex="-1"></a><span class="co">#&gt;  8 22.90%   " 60 months" 36.1    30777          62        18.0</span></span>
-<span id="cb27-14"><a href="#cb27-14" aria-hidden="true" tabindex="-1"></a><span class="co">#&gt;  9 5.31%    " 36 months" 54.9    8576           71        11.4</span></span>
-<span id="cb27-15"><a href="#cb27-15" aria-hidden="true" tabindex="-1"></a><span class="co">#&gt; 10 6.83%    " 36 months" 12.4    53356          17        15.8</span></span>
+<span id="cb27-4"><a href="#cb27-4" aria-hidden="true" tabindex="-1"></a><span class="co">#&gt;    int_rate term      bc_util bc_open_to_buy all_util  pred</span></span>
+<span id="cb27-5"><a href="#cb27-5" aria-hidden="true" tabindex="-1"></a><span class="co">#&gt;    &lt;chr&gt;    &lt;chr&gt;       &lt;dbl&gt;          &lt;dbl&gt;    &lt;dbl&gt; &lt;dbl&gt;</span></span>
+<span id="cb27-6"><a href="#cb27-6" aria-hidden="true" tabindex="-1"></a><span class="co">#&gt;  1 20.39%   36 months    94              133       82 14.9 </span></span>
+<span id="cb27-7"><a href="#cb27-7" aria-hidden="true" tabindex="-1"></a><span class="co">#&gt;  2 13.06%   60 months    82            10021       70 17.2 </span></span>
+<span id="cb27-8"><a href="#cb27-8" aria-hidden="true" tabindex="-1"></a><span class="co">#&gt;  3 10.56%   60 months    34.5          41570       54 13.4 </span></span>
+<span id="cb27-9"><a href="#cb27-9" aria-hidden="true" tabindex="-1"></a><span class="co">#&gt;  4 6.83%    36 months     7.9          23119       47  9.43</span></span>
+<span id="cb27-10"><a href="#cb27-10" aria-hidden="true" tabindex="-1"></a><span class="co">#&gt;  5 17.47%   60 months    62.1          11686       57 16.0 </span></span>
+<span id="cb27-11"><a href="#cb27-11" aria-hidden="true" tabindex="-1"></a><span class="co">#&gt;  6 16.46%   36 months    92.2            380       75 14.6 </span></span>
+<span id="cb27-12"><a href="#cb27-12" aria-hidden="true" tabindex="-1"></a><span class="co">#&gt;  7 19.42%   60 months    21.5           1099       12 13.5 </span></span>
+<span id="cb27-13"><a href="#cb27-13" aria-hidden="true" tabindex="-1"></a><span class="co">#&gt;  8 22.90%   60 months    36.1          30777       62 14.3 </span></span>
+<span id="cb27-14"><a href="#cb27-14" aria-hidden="true" tabindex="-1"></a><span class="co">#&gt;  9 5.31%    36 months    54.9           8576       71 12.7 </span></span>
+<span id="cb27-15"><a href="#cb27-15" aria-hidden="true" tabindex="-1"></a><span class="co">#&gt; 10 6.83%    36 months    12.4          53356       17  6.96</span></span>
 <span id="cb27-16"><a href="#cb27-16" aria-hidden="true" tabindex="-1"></a><span class="co">#&gt; # ℹ more rows</span></span></code><button title="Copy to Clipboard" class="code-copy-button"><i class="bi"></i></button></pre></div>
 </div>
 
